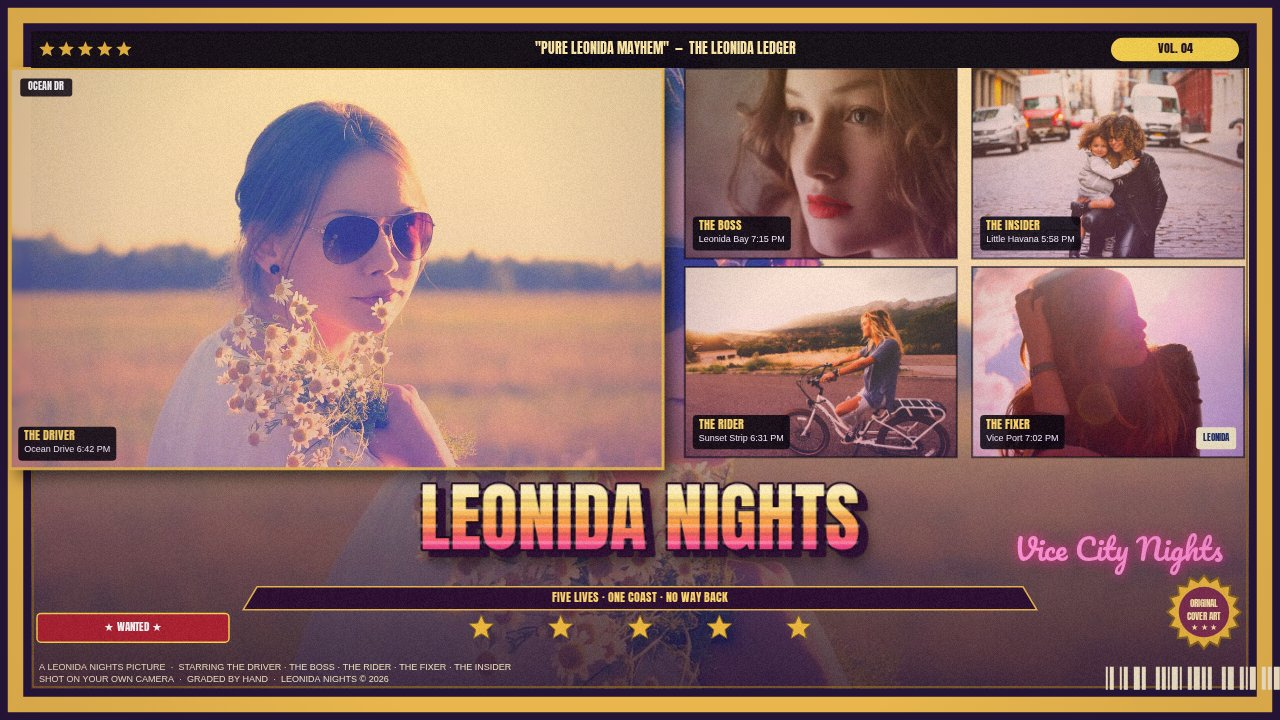
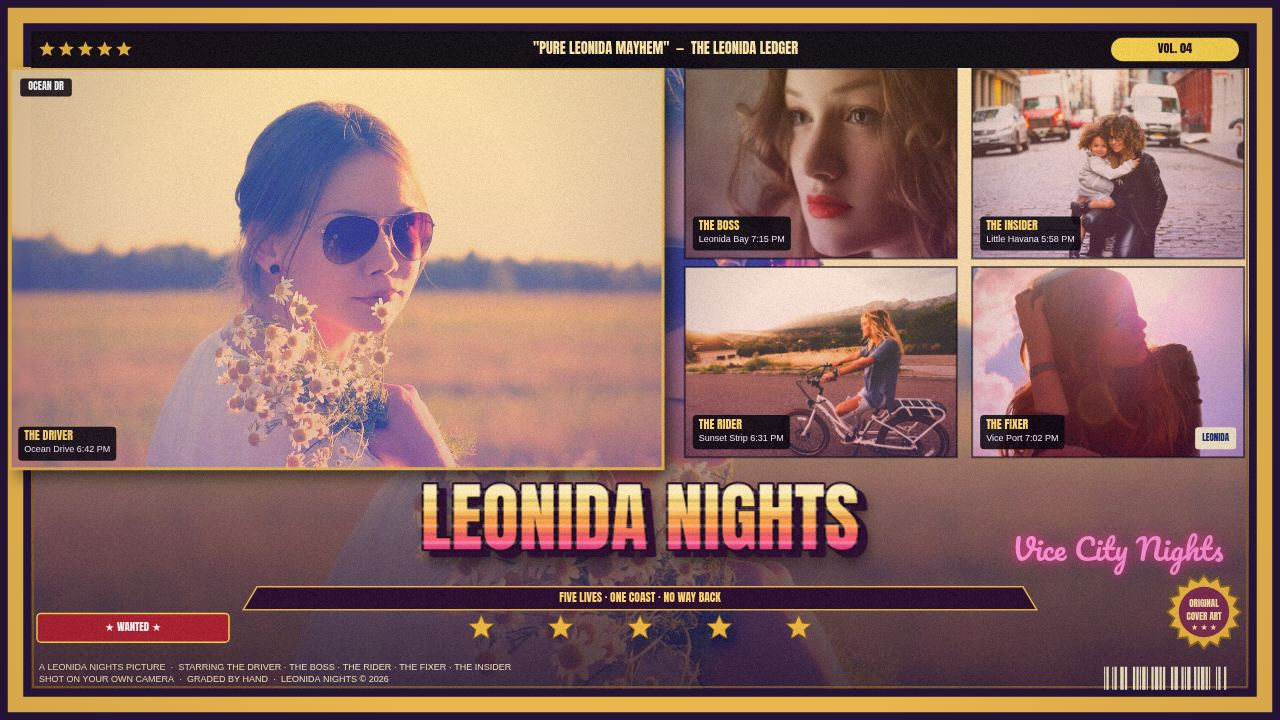
Leonida Nights Cover Studio v4 fix: barcode fully inside frame

diff --git a/app/src/cover.js b/app/src/cover.js
@@ -113,7 +113,7 @@ export function furnitureGeometry(W, H) {
     seal: { x: geo.sealCx - geo.sealR, y: geo.sealCy - geo.sealR, w: geo.sealR * 2, h: geo.sealR * 2 },
     ribbon: { x: W * 0.19, y: geo.ribbonY, w: W * 0.62, h: geo.ribbonH },
     billing: { x: fi + 8, y: geo.billingY, w: W * 0.62, h: 0.028 * H },
-    barcode: { x: W - fi - 0.115 * W, y: geo.billingY - 0.004 * H, w: 0.1 * W, h: 0.032 * H },
+    barcode: (() => { const bl = barcodeLayout(W, H); return { x: bl.x, y: bl.y, w: bl.w, h: bl.h }; })(),
     wanted: { x: fi + 6, y: geo.starsCy - geo.wantedH / 2, w: geo.wantedW, h: geo.wantedH },
     stars: { x: W / 2 - 0.15 * W, y: geo.starsCy - geo.starR, w: 0.3 * W, h: geo.starR * 2 },
   };
@@ -145,6 +145,26 @@ export function barcodeBars(seed, count = 42) {
     bars.push({ black: r > 0.42, w: r < 0.6 ? 1 : r < 0.85 ? 2 : 3 });
   }
   return bars;
+}
+
+// Barcode layout: the bars live in a reserved box at the bottom-right —
+// 0.10*W wide, its right edge 0.015*W inside the frame's inner edge (that
+// gap is the barcode's right quiet zone). The bar unit is scaled so the
+// 42 bars exactly fill the box, so the drawn width never depends on the
+// seed: the barcode can never run past the frame in any size or title.
+// (A fixed integer unit overflowed the box: ~252px drawn vs 128px reserved
+// at 1280w, clipping the bars at the image edge.)
+export function barcodeLayout(W, H, seed = 'LEONIDA NIGHTSVOL. 04') {
+  const geo = titleGeometry(W, H);
+  const fi = geo.frameInset;
+  const x = W - fi - 0.115 * W;
+  const y = geo.billingY - 0.004 * H;
+  const w = 0.1 * W;
+  const h = 0.032 * H;
+  const bars = barcodeBars(seed);
+  const totalUnits = bars.reduce((n, b) => n + b.w + 1, 0);
+  const unit = w / totalUnits;
+  return { x, y, w, h, unit, totalUnits, right: x + w, frameInnerRight: W - fi };
 }
 
 // Map layout panels to photos (cycle the samples), applying overrides.
@@ -620,11 +640,11 @@ export function renderPoster(canvas, state, W, H) {
   ctx.fillText('A LEONIDA NIGHTS PICTURE  ·  STARRING THE DRIVER · THE BOSS · THE RIDER · THE FIXER · THE INSIDER', fi + 8, geo.billingY);
   ctx.fillText('SHOT ON YOUR OWN CAMERA  ·  GRADED BY HAND  ·  LEONIDA NIGHTS © 2026', fi + 8, geo.billingY + 0.017 * H);
   const bars = barcodeBars(state.title + state.volume);
-  const barX0 = W - fi - 0.115 * W;
-  const barY = geo.billingY - 0.004 * H;
-  const barH = 0.032 * H;
-  let bx = barX0;
-  const unit = Math.max(1, Math.round(0.0016 * W));
+  const bl = barcodeLayout(W, H, state.title + state.volume);
+  const barY = bl.y;
+  const barH = bl.h;
+  let bx = bl.x;
+  const unit = bl.unit;
   for (const b of bars) {
     if (b.black) {
       ctx.fillStyle = frame.id === 'cream' ? '#241536' : '#f5e9c8';
